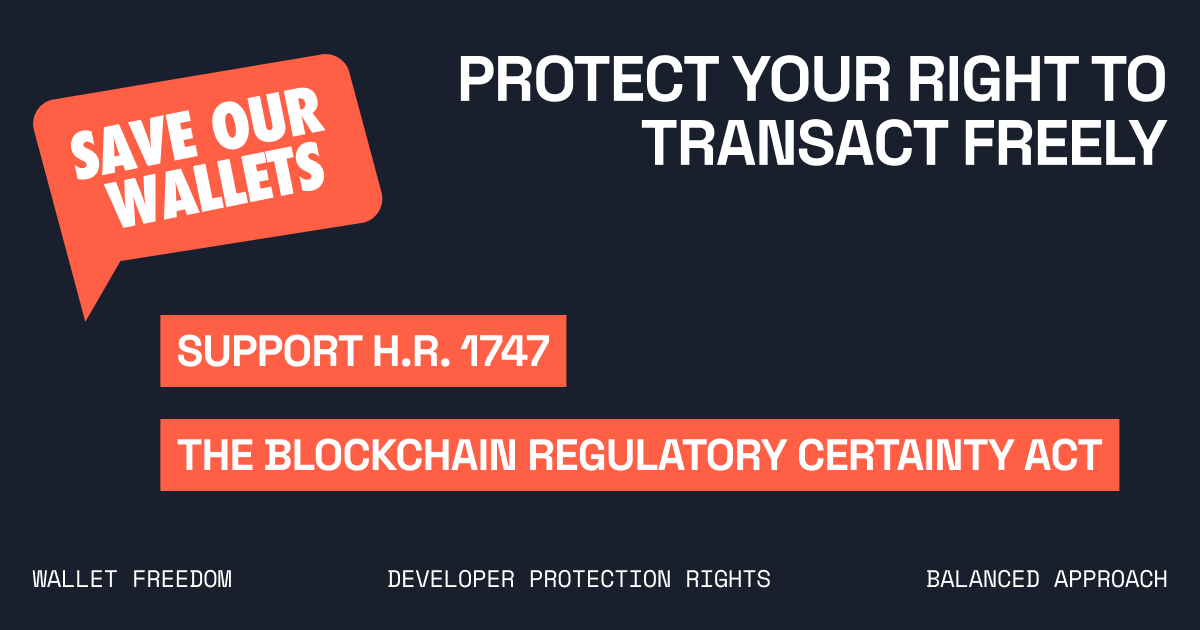
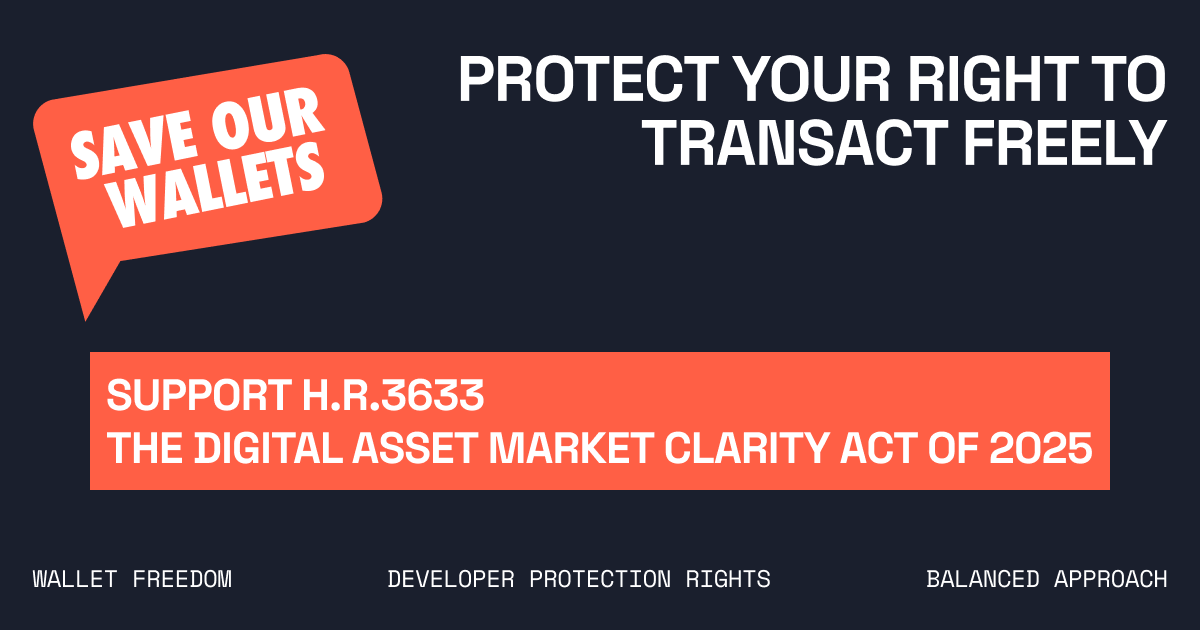
updated copy, meta data, and share / open graph images to reflect new CLARITY act.

Changed region(s): [[0.0617, 0.4825, 0.9558, 0.7841]]

diff --git a/pages/index.vue b/pages/index.vue
@@ -131,7 +131,7 @@
             </h1>
             
             <h2 class="bg-coral-500 text-white px-6 py-4 font-space-grotesk font-semibold text-xl sm:text-2xl md:text-3xl uppercase w-full text-center">
-              Support The Blockchain Regulatory Certainty Act
+              Support The CLARITY Act
             </h2>
 
             <!-- Forms Section -->
@@ -156,7 +156,7 @@
       <div class="max-w-6xl mx-auto">
         <div class="bg-navy-900 inline-block px-6 py-3 mb-12">
           <h2 class="font-space-grotesk font-bold text-2xl md:text-3xl uppercase">
-            WHY THE BLOCKCHAIN REGULATORY CERTAINTY ACT MATTERS
+            WHY THE CLARITY ACT MATTERS
           </h2>
         </div>
 
@@ -168,7 +168,7 @@
             <div class="text-coral-500 text-4xl md:text-6xl font-bold mb-4">01</div>
             <h3 class="text-xl md:text-2xl font-bold text-navy-900 mb-4">Ensures Wallet Freedom</h3>
             <p class="text-navy-900/70 text-lg md:text-2xl">
-              The BRCA Guarantees that your favorite wallet stays available by shielding service providers who don't control user assets from overburdensome regulations they can't comply with anyway.
+              The CLARITY Act of 2025 guarantees that your favorite wallet stays available by shielding service providers who don't control user assets from overburdensome regulations they can't comply with anyway.
             </p>
           </div>
 
@@ -278,7 +278,7 @@
         <!-- Intro text - full width to match boxes -->
         <div class="mb-12">
           <p class="text-lg md:text-2xl text-white leading-relaxed">
-            The Blockchain Regulatory Certainty Act creates a safe harbor from licensing and registration requirements for blockchain developers and service providers who:
+            The CLARITY Act of 2025 creates a safe harbor from licensing and registration requirements for blockchain developers and service providers who:
           </p>
         </div>
 
@@ -328,7 +328,7 @@
           </p>
           <!-- Secondary CTA: Read The Bill -->
           <a
-            href="https://emmer.house.gov/_cache/files/3/9/391fb470-d4a5-4eef-aedd-df1626dfb21a/BDDB1A4E71AE7CE1CBFABC4AB43BFCB2B087D8654CEACBCF0BC3EF5792D67A7A.brca-119.pdf"
+            href="https://docs.house.gov/meetings/AG/AG00/20250610/118382/BILLS-119pih-AmendmentintheNatureofaSubstituteOfferedbyChairmanThompsonofPennsylvania-U1.pdf"
             target="_blank"
             rel="noopener noreferrer"
             class="animated-link underline text-coral-500 hover:text-coral-400 font-semibold mt-4 inline-block text-lg md:text-2xl transition-colors duration-200"
@@ -351,7 +351,7 @@
             </h2>
           </div>
           <p class="text-lg md:text-2xl text-navy-900/80 leading-relaxed">
-            Your voice matters! Tell your representatives why clear, fair blockchain regulation is necessary to continue innovating in this increasingly important space. 
+            Your voice matters! Call your representatives today and express the need for clear, fair blockchain regulation to drive innovation in this rapidly evolving space. Be sure to mention Section 110 of the CLARITY Act, and let them know that you support bringing clarity and regulatory certainty to the digital asset market.
           </p>
         </div>
 
@@ -401,7 +401,7 @@
               </h3>
             </div>
             <p class="text-navy-900/70 text-lg font-medium mt-6 transition-colors duration-300 ease-in-out">
-              Contact your congressional representatives and tell them why you support the Blockchain Regulatory Certainty Act.
+              Contact your congressional representatives and tell them why you support the CLARITY Act.
             </p>
           </div>
 

diff --git a/nuxt.config.ts b/nuxt.config.ts
@@ -25,12 +25,12 @@ export default defineNuxtConfig({
       ],
       meta: [
         // Basic SEO
-        { name: 'description', content: 'Support H.R. 1747: The Blockchain Regulatory Certainty Act. Protect your right to transact freely and keep innovation in America.' },
-        { name: 'keywords', content: 'blockchain, H.R. 1747, crypto, wallets, regulation, financial freedom, peer-to-peer, innovation' },
+        { name: 'description', content: 'Support H.R.3633: the Digital Asset Market Clarity Act of 2025. Protect your right to transact freely and keep innovation in America.' },
+        { name: 'keywords', content: 'blockchain, H.R. 3633, crypto, wallets, regulation, financial freedom, peer-to-peer, innovation' },
 
         // Open Graph
         { property: 'og:title', content: 'Save Our Wallets – Protect Your Right to Transact Freely' },
-        { property: 'og:description', content: 'Support H.R. 1747: The Blockchain Regulatory Certainty Act. Protect your right to transact freely and keep innovation in America.' },
+        { property: 'og:description', content: 'Support H.R. 3633: the Digital Asset Market Clarity Act of 2025. Protect your right to transact freely and keep innovation in America.' },
         { property: 'og:image', content: 'https://saveourwallets.org/images/og_image.png' },
         { property: 'og:url', content: 'https://saveourwallets.org/' },
         { property: 'og:type', content: 'website' },
@@ -38,7 +38,7 @@ export default defineNuxtConfig({
         // Twitter Card
         { name: 'twitter:card', content: 'summary_large_image' },
         { name: 'twitter:title', content: 'Save Our Wallets – Protect Your Right to Transact Freely' },
-        { name: 'twitter:description', content: 'Support H.R. 1747: The Blockchain Regulatory Certainty Act. Protect your right to transact freely and keep innovation in America.' },
+        { name: 'twitter:description', content: 'Support H.R. 3633: the Digital Asset Market Clarity Act of 2025. Protect your right to transact freely and keep innovation in America.' },
         { name: 'twitter:image', content: 'https://saveourwallets.org/images/og_image.png' }
       ]
     }

diff --git a/components/DeveloperCarousel.vue b/components/DeveloperCarousel.vue
@@ -56,7 +56,7 @@ import pierreImage from '@/assets/images/pierre.jpg'
 
 const quotes = [
   {
-    text: `Without clear legal protections, we risk losing the very tools that make bitcoin sovereign and censorship-resistant. The BRCA is critical to ensure that building or using non-custodial wallets isn't treated like a crime. If we don't act, innovation will leave the United States — and with it, our financial freedom.`,
+    text: `Without clear legal protections, we risk losing the very tools that make bitcoin sovereign and censorship-resistant. The CLARITY Act is critical to ensure that building or using non-custodial wallets isn't treated like a crime. If we don't act, innovation will leave the United States — and with it, our financial freedom.`,
     author: 'Matt Corallo',
     title: 'Bitcoin Core Developer',
     image: mcImage

diff --git a/components/ShareModal.vue b/components/ShareModal.vue
@@ -73,7 +73,7 @@ const closeModal = () => {
 
 function shareOnTwitter() {
   const text = encodeURIComponent(
-    "Protect your right to transact freely! Support the Blockchain Regulatory Certainty Act. Learn more at https://saveourwallets.org #SaveOurWallets #BRCA"
+    "Protect your right to transact freely! Support the CLARITY Act. Learn more at https://saveourwallets.org @saveourwalets #SaveOurWallets #CLARITYAct"
   )
   const url = 'https://twitter.com/intent/tweet?text=' + text
   window.open(url, '_blank')
